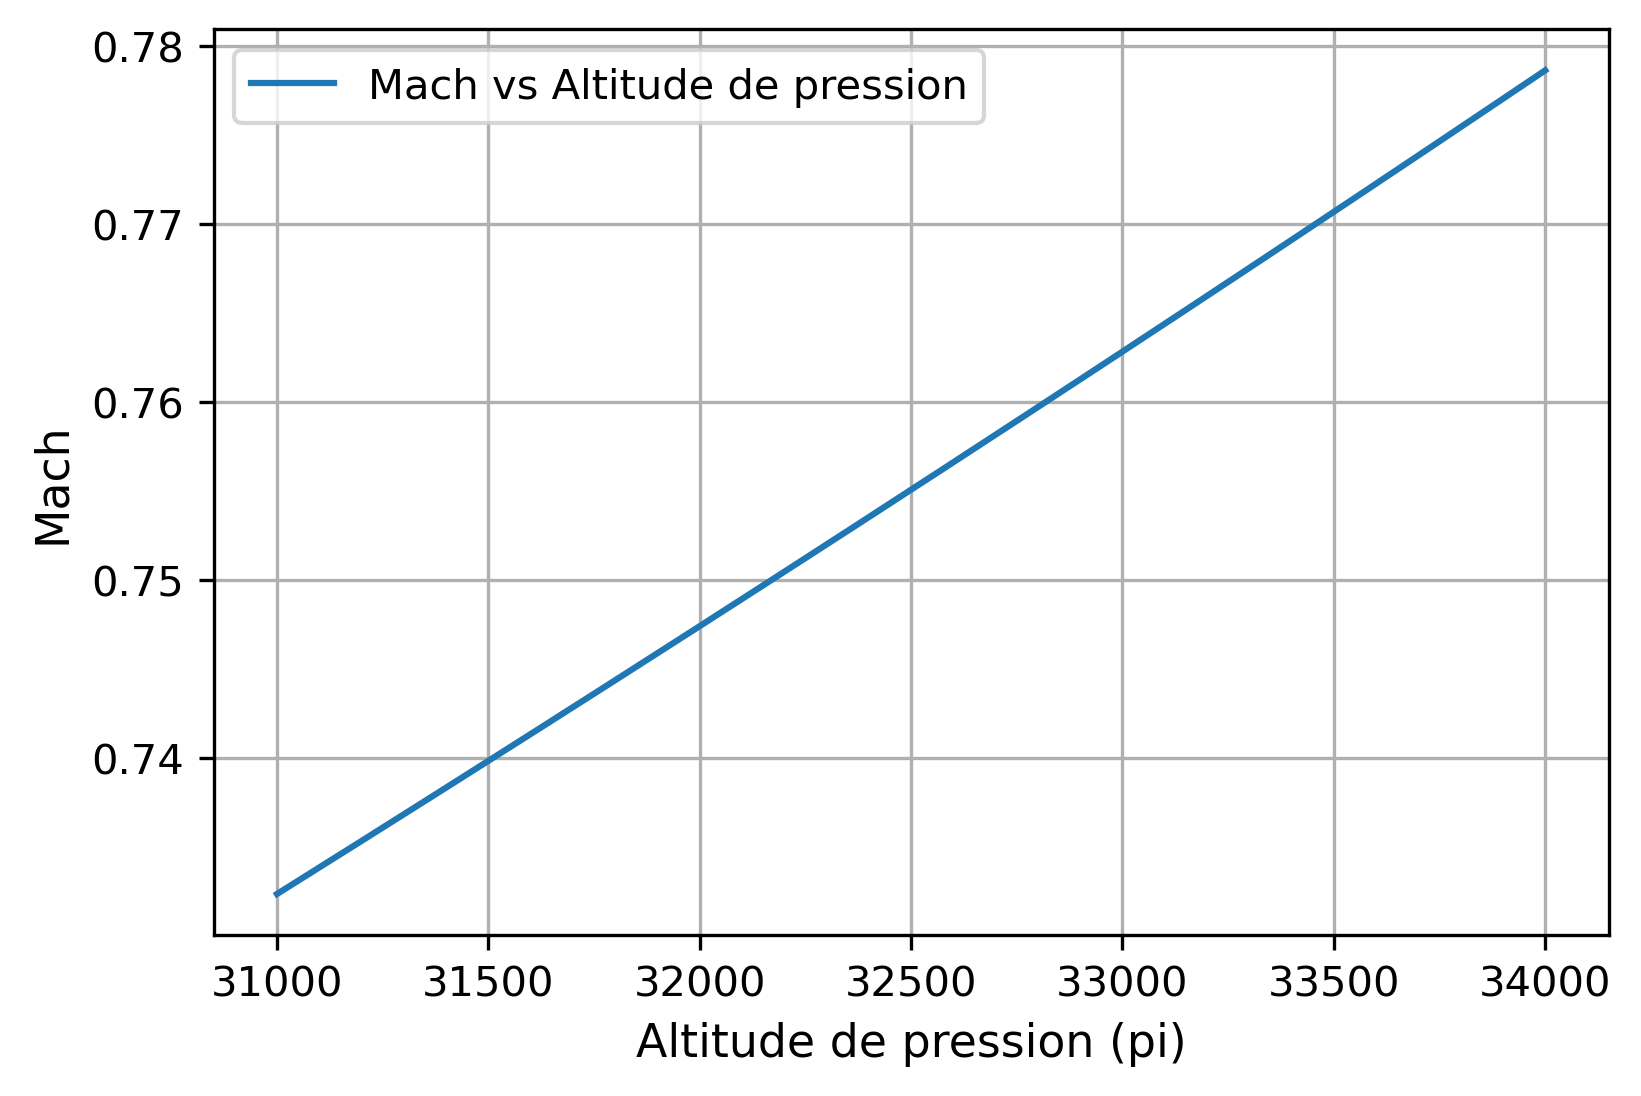
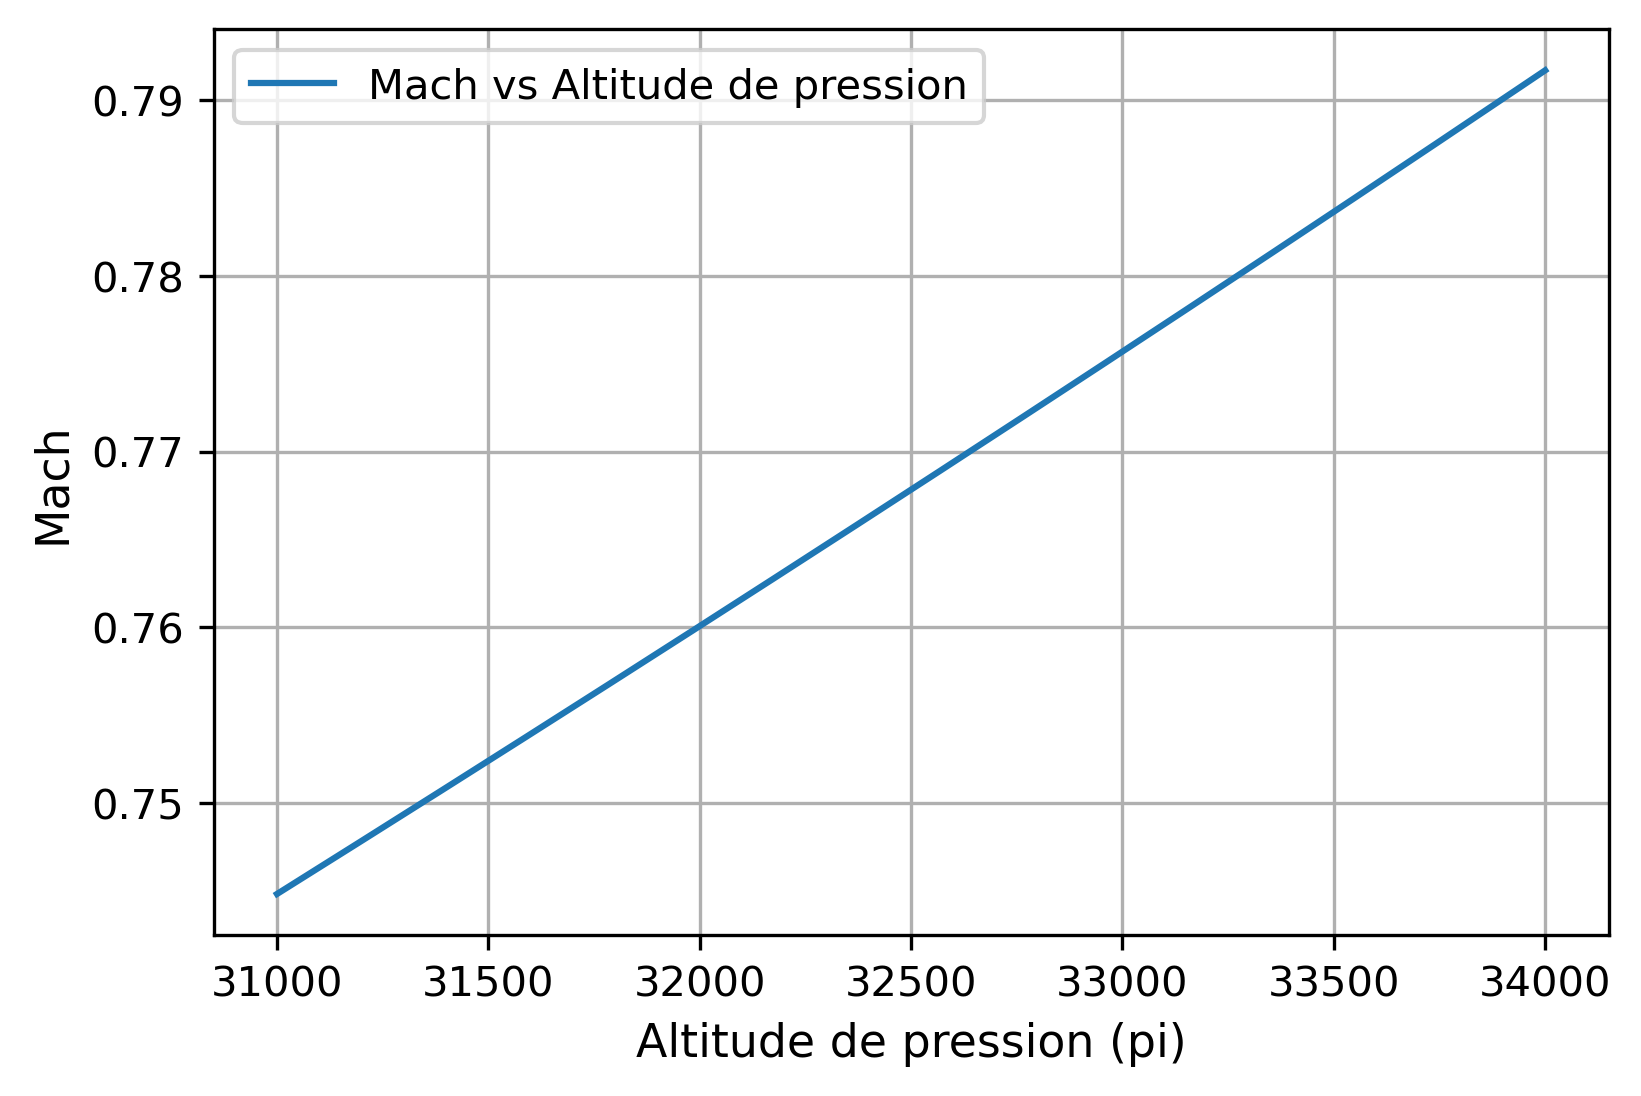
moitp1

diff --git a/TP1C_Rosalie.py b/TP1C_Rosalie.py
@@ -14,18 +14,31 @@ from TP1B import parametres_de_vol
 ###Question 4:
     
 Vc=270 #noeuds
-Hp=0 #pi
-T_C=0 #C ou K dépendemment de delISA
+Hp=3000 #pi
 delISA=True
 W=40000 #lbs
 
-a_kts, a_fts, M, V_kts, V_fts, Ve_kts, Ve_fts, Vc_kts, Vc_fts, pt, q, qc, Tt_C, Tt_K, mu, RN, CL = parametres_de_vol(Hp, T_C, delISA,W, Vc=Vc)
+###Calcul des deux vitesses
+a=-55
+b=55
+V_kts=0
+while abs(V_kts-Vc)>=0.0001:
+    m=(a+b)/2
+    a_kts, a_fts, M, V_kts, V_fts, Ve_kts, Ve_fts, Vc_kts, Vc_fts, pt, q, qc, Tt_C, Tt_K, mu, RN, CL = parametres_de_vol(Hp, m, delISA,W, Vc=Vc)    
+    if V_kts<Vc:
+        a=m
+    else:
+        b=m
+
 print('Question 4:')
-print("TAS = %.7g noeuds" % (V_kts))
+print("TAS = %.4g noeuds" % (V_kts))
 print("CAS = %.7g noeuds" % (Vc_kts))
+print("delISA = %.6g C" % (m))
 
 
 ###Question 5:
+Vc=275
+T_C=0 #C ou K dépendemment de delISA
     
 ###Tendance de la variation de Mach en fonction de l'altitude de pression
 Mref=0.76
@@ -59,11 +72,7 @@ while abs(M-Mref)>=0.0001:
 print('Question 5:')
 print("Altitude de pression = %.9g pieds" % (m))  
 
-Vc=275 #noeuds
 Hp=31992.1875  #pi
-T_C=0 #C ou K dépendemment de delISA
-delISA=True
-W=40000 #lbs 
 
 
 ###Vérification que la température n'a pas d'influence grâce à un graphique
@@ -91,6 +100,9 @@ T_C=0 #C car delISA est False, donc une température est donnée. Le delISA est 
 delISA=False
 W=40000 #lbs 
 
+
+###Vérification de l'allure de la variation de température totale
+
 Vce=np.linspace(100,275,200)
 Tt_Ce=np.zeros(len(Vce))
 for k in range(len(Vce)):
@@ -104,6 +116,9 @@ plt.legend(loc='best')
 plt.grid(True)
 plt.savefig('TtvsVc.png', dpi = 300, bbox_inches='tight')
 plt.show()
+
+
+###Calcul de la vitesse calibrée
 
 Tref=10
 a=100
@@ -119,6 +134,7 @@ while abs(Tt_C-Tref)>=0.0001:
     
 print('Question 6:')    
 print("CAS = %.7g noeuds" % (m))
+
 
 
 
